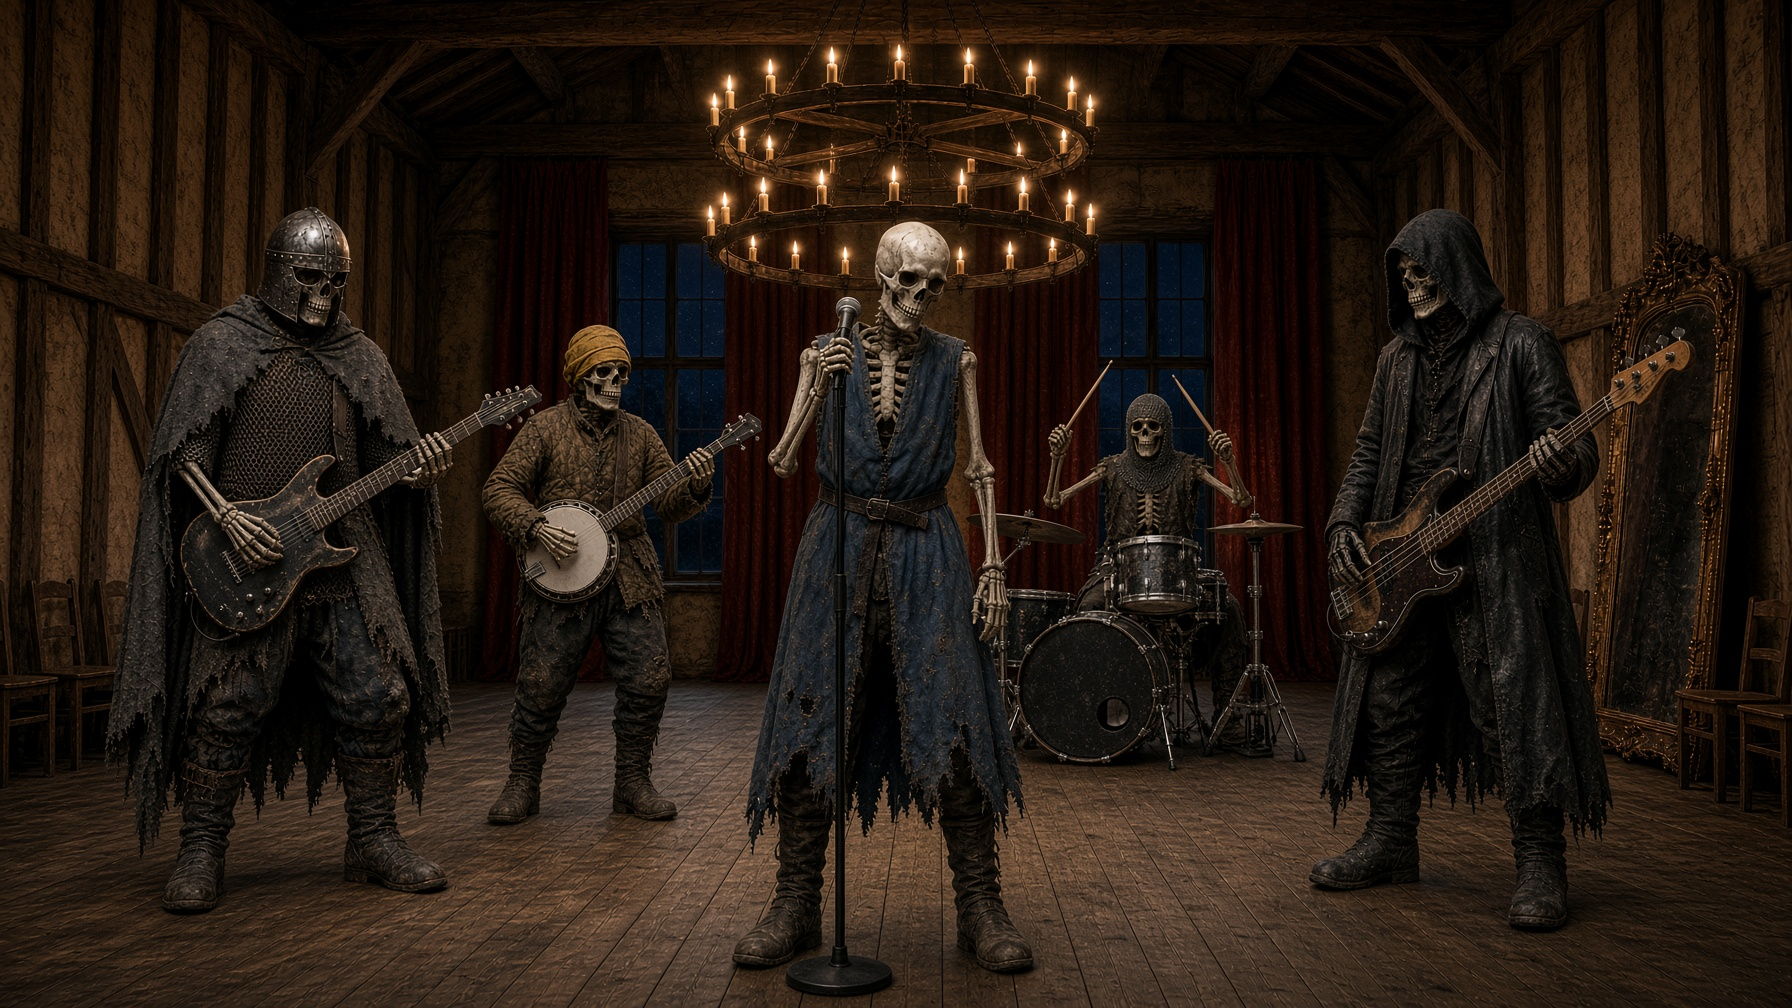
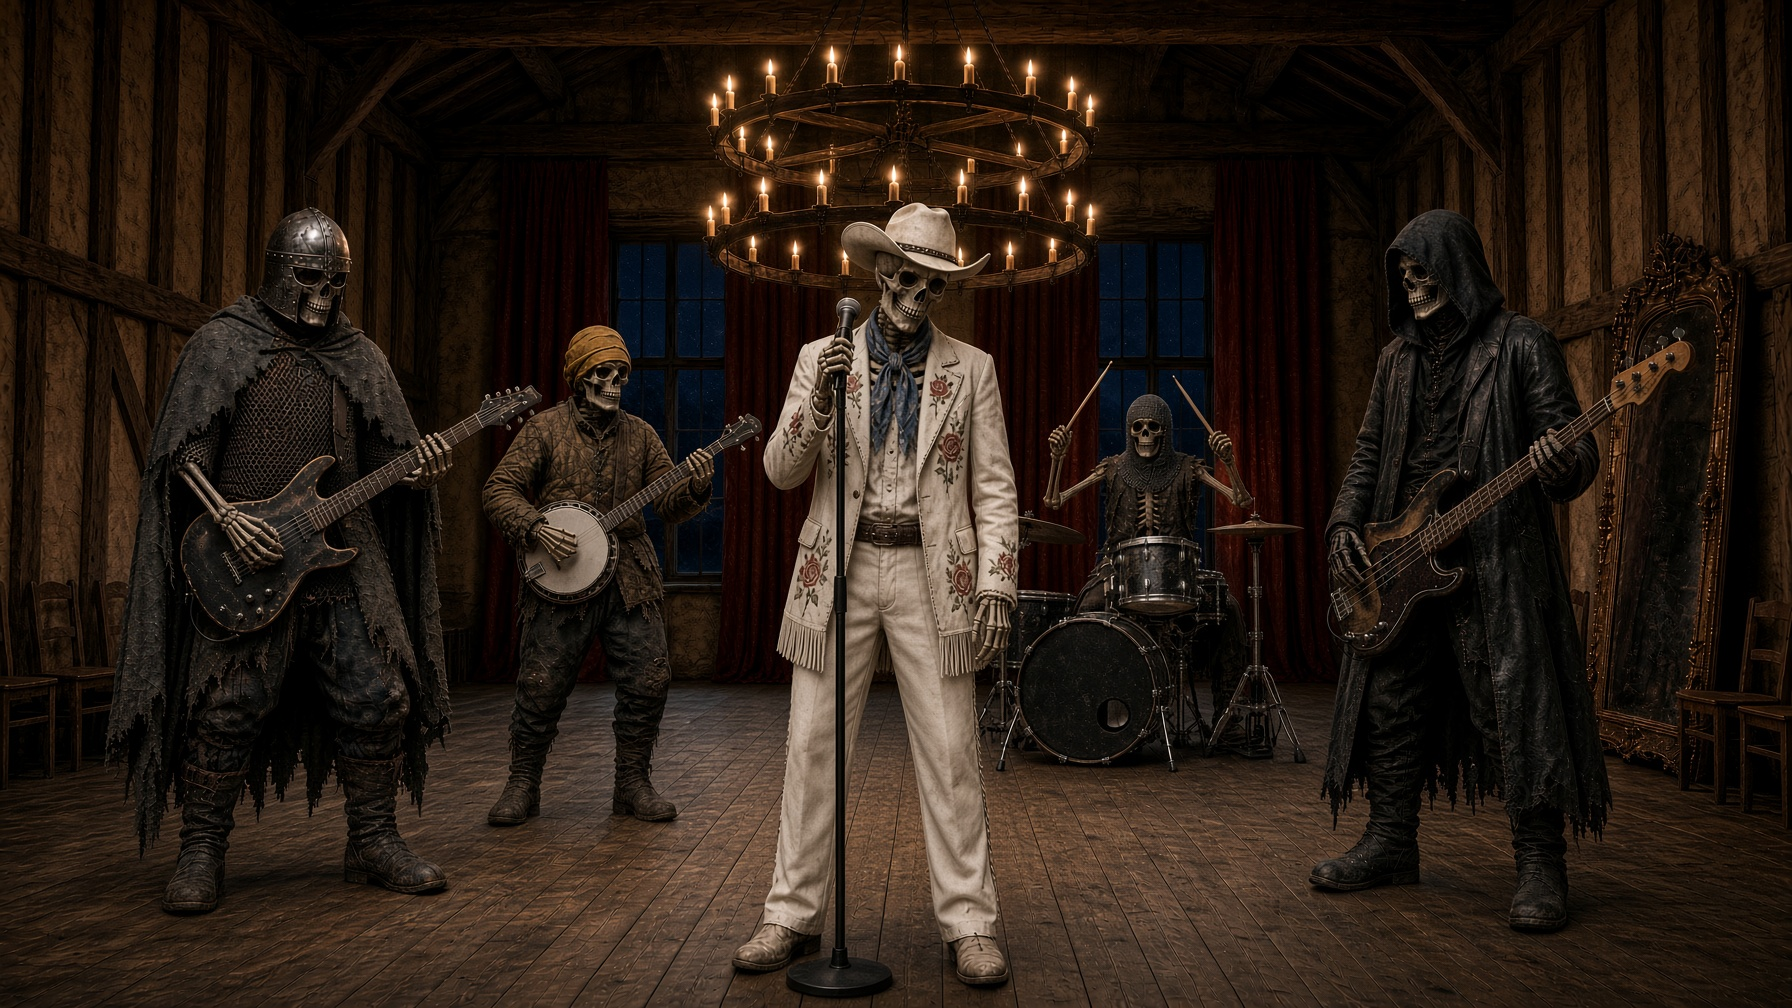
King of Nothing: band master with showman singer, B2
Claude-Session: https://claude.ai/code/session_01SvAVvhLrYvaVYmg1YRYMoW

diff --git a/videos/king-of-nothing/bible.md b/videos/king-of-nothing/bible.md
@@ -81,7 +81,7 @@ Status: answers in (13 Nov 2026). Five members, dressed as the king's old castle
 
 - **Band identity line:** `a skeleton with a smooth, intact, weathered bone-white skull and empty dark eye sockets`
 - **Stage:** ballroom, night candlelight. Gear: drum kit centered at the back, one microphone stand at the front center, no amps.
-- **References:** `refs/band-lineup.jpg` approved 13 Nov 2026 (first try; order and headwear right, heights came out nearly equal). Also approved: instruments, all five member sheets, `refs/stage-plate.jpg` (the edit restyled the walls to timber-framed plaster; band shots follow the stage plate). `refs/band-master.jpg` approved 13 Nov 2026 (second try; Tim kept it though the guitarist's guitar looks long like a bass).
+- **References:** `refs/band-lineup.jpg` approved 13 Nov 2026 (first try; order and headwear right, heights came out nearly equal). Also approved: instruments, all five member sheets, `refs/stage-plate.jpg` (the edit restyled the walls to timber-framed plaster; band shots follow the stage plate). `refs/band-master.jpg` approved 13 Nov 2026 (second try; Tim kept it though the guitarist's guitar looks long like a bass). Singer swapped to the showman outfit by edit, same day.
 
 | Member | Member block | Instrument | Hand | Position | Short anchor | Sheet |
 | --- | --- | --- | --- | --- | --- | --- |
@@ -109,7 +109,7 @@ Instruments:
 | # | Description | Members | Attach | Status |
 | --- | --- | --- | --- | --- |
 | B1 | Full band, wide (band master) | all five | stage plate, band-lineup | approved: refs/band-master.jpg |
-| B2 | Full band, low angle | all five | band master (edit) | to do |
+| B2 | Full band, low angle | all five | band master (edit) | approved: shots/B2.jpg |
 | B3 | Singer, medium | singer | stage plate, singer sheet | to do |
 | B4 | Singer, close-up | singer | singer sheet, stage plate | to do |
 | B5 | Guitarist, medium | guitarist | stage plate, guitarist sheet, prop-guitar | to do |

diff --git a/videos/king-of-nothing/prompts.md b/videos/king-of-nothing/prompts.md
@@ -44,3 +44,4 @@ Band sheets (edits of band-lineup): drummer, bassist, banjo approved first try. 
 Guitarist sheet: profile fix edit worked, approved.
 Stage plate (ballroom-master + prop-drums): approved first try; walls came out as timber-framed plaster instead of planks.
 Singer showman sheet: outfit-change edit of the old sheet worked first try.
+Band master: singer outfit swap edit (band-master + new singer sheet) worked first try; sheet's sleeve fringe became hem fringe. B2 low-angle edit of band master: approved first try, shots/B2.jpg.
